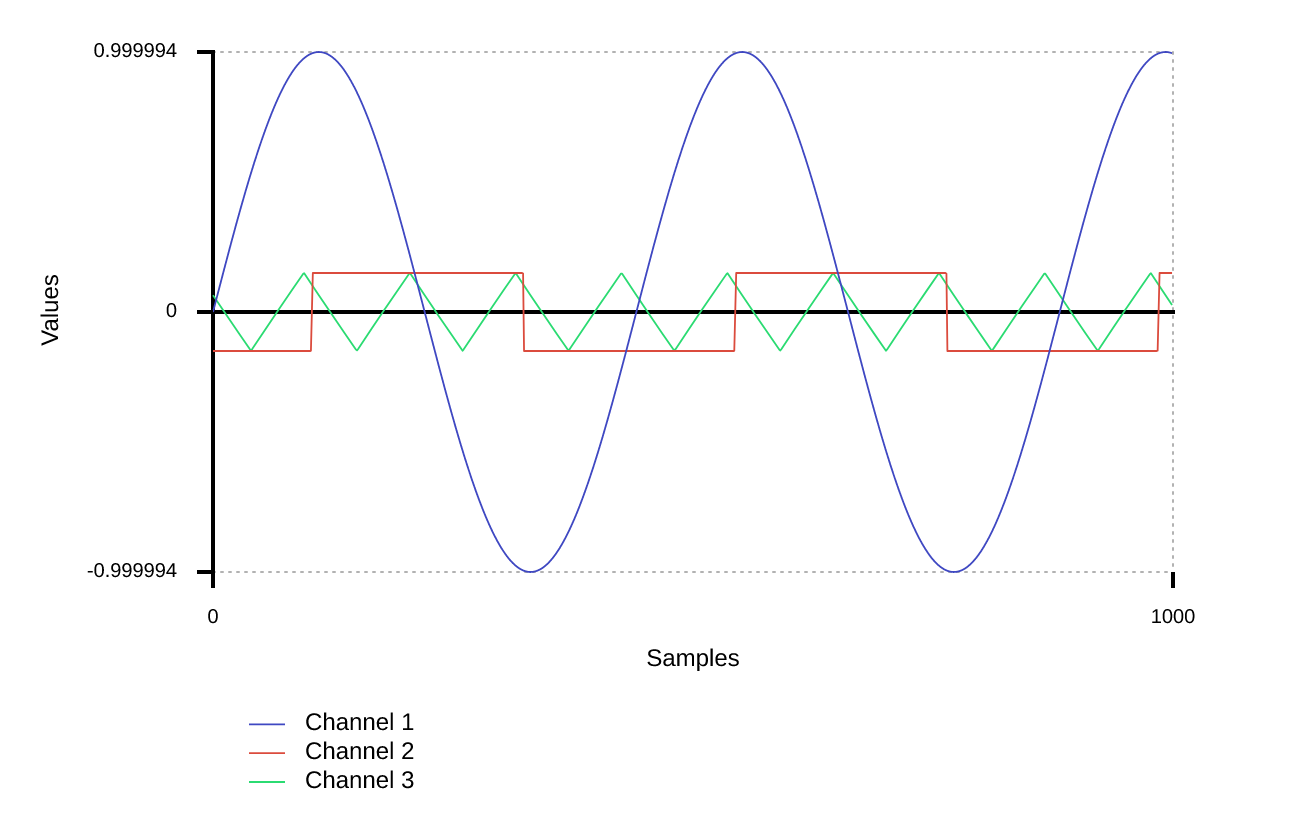
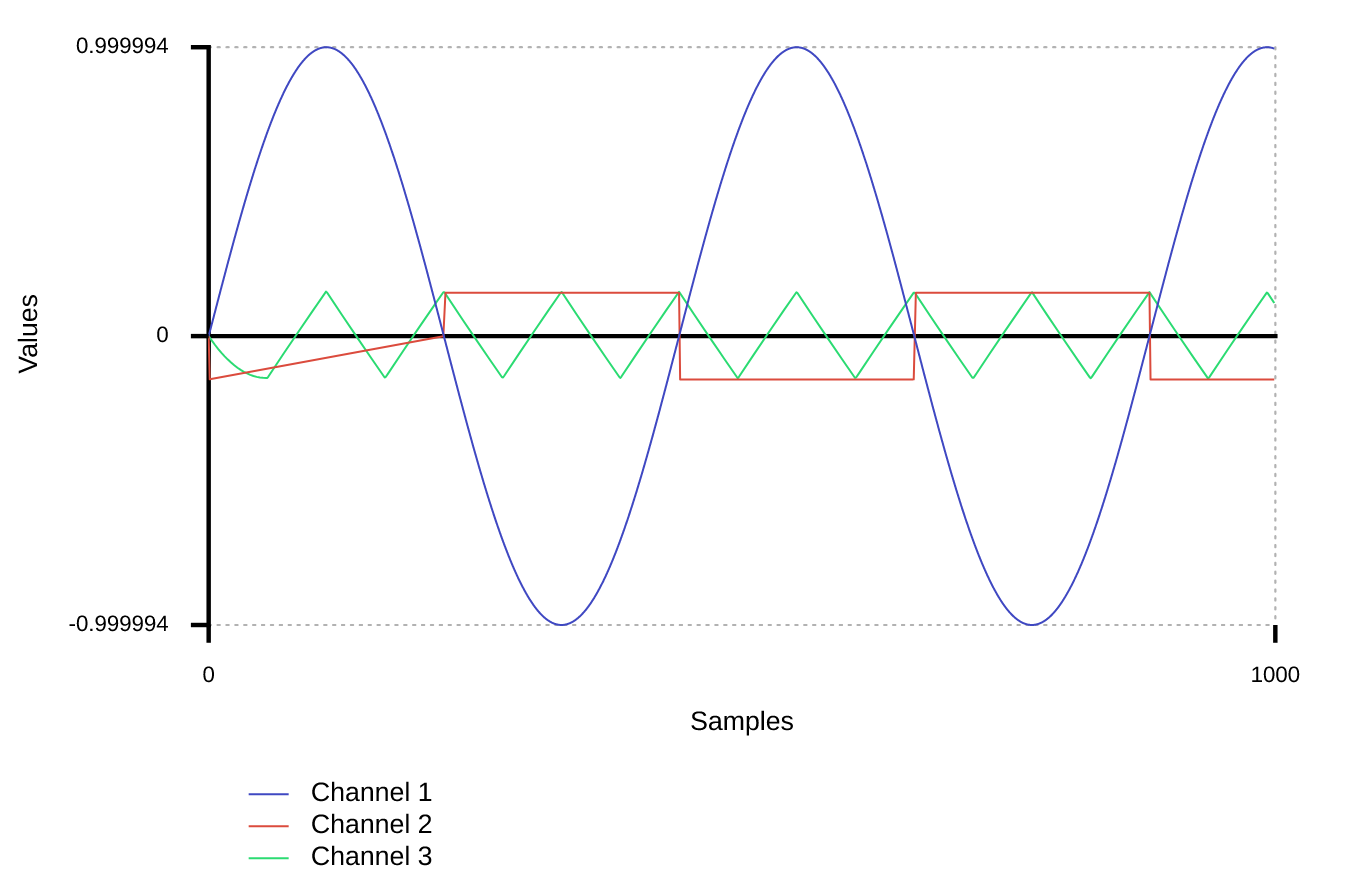
remove buffer loop in channel graph

diff --git a/svgplot.cpp b/svgplot.cpp
@@ -132,9 +132,10 @@ struct DisplayUI : public GenericUI
             //printf(",\t");
             //cout << *it.second;
                 probe.add(frame, (*it.second));
-            cout << std::endl;
-            cout << "Frame : "<< frame << " it : " << *it.second;
-            cout << std::endl;
+            //debug
+            ////cout << std::endl;
+            ////cout << "Frame : "<< frame << " it : " << *it.second;
+            ////cout << std::endl;
             c++;
         }
     }
@@ -145,8 +146,8 @@ struct DisplayUI : public GenericUI
         if (strcmp(key,"probe") == 0) 
         {
             fProbeMap[std::string(val)]=zone;
-            std::cout << "probe" << val;
-            std::cout << std::endl;
+            //std::cout << "probe" << val;
+            //std::cout << std::endl;
         }
     }
     
@@ -213,7 +214,7 @@ class faust2svgplot {
             
             //create the graph legend 
             auto &legend = plot.legend(0, -1);
-            
+            DSP->compute(nsamples, DSP_inputs, DSP_outputs);
             //go through the different channels
             for (int chan=0; chan< DSP->getNumOutputs(); ++chan) 
             {
@@ -223,45 +224,31 @@ class faust2svgplot {
                 auto &line = plot.line();
                 //fixed Index colour position similar to channel
                 line.styleIndex.colour = chan;
-                
-                //buffer counter
-                int bcount = 0;
-                int nbsamples=int(nsamples);
-                do
-                {
-                    //compte on the buffer size
-                    DSP->compute(bsize, DSP_inputs, DSP_outputs);
-                    //create the outputs pointer by channel
-                    FAUSTFLOAT* sub_outputs = DSP_outputs[chan];
-                    for (int frame=0; frame < bsize; ++frame) 
-                        {
-                            //debug
-                            ////std::cout << "frame: "<< frame+(bcount*int(bsize));
-                            ////std::cout << " | Channel " << chan+1 << " :" 
-                            ////    << sub_outputs[frame] << "\t";
-                            ////std::cout << std::endl;
+                for (int frame=0; frame < nsamples; ++frame) 
+                    {
+                        //debug
+                        ////std::cout << "frame: "<< frame;
+                        FAUSTFLOAT* sub_outputs = DSP_outputs[chan];
+                        ////std::cout << " | Channel " << chan+1 << " :" << sub_outputs[frame] << "\t";
+                        ////std::cout << std::endl;
                         
-                            //add the points to the current output line
-                            line.add(frame+(bcount*int(bsize)), sub_outputs[frame]); 
-
-                            //check max and min to create proportional axes
-                            if (max <= sub_outputs[frame]) 
-                            {
-                                max = sub_outputs[frame];
-                            }
-                            if (min >= sub_outputs[frame]) 
-                            {
-                                min = sub_outputs[frame];
-                            } 
+                        //write points in line
+                        line.add(frame, sub_outputs[frame]);
+                        //check for max and min in order to create proportional axes
+                        
+                        if (max <= sub_outputs[frame]) 
+                        {
+                        max = sub_outputs[frame];
                         }
-                    //increment buffer counter
-                    ++bcount;
-                    //reduce total samples number by buffer size
-                    nbsamples -= bsize;
-                }while(nbsamples > 0);
-                //add legend name
+                        if (min >= sub_outputs[frame]) 
+                        {
+                        min = sub_outputs[frame];
+                        } 
+                    }
+                //add legend name 
                 legend.line(line,"Channel "+std::to_string(chan+1));
-            }
+                }
+                     
 
             //if probe metadata in the dsp code
             if (disp.getNumProbes()>0) 
@@ -277,16 +264,13 @@ class faust2svgplot {
                 //fixed Index colour position similar to probe number
                 probe.styleIndex.colour = numbprobes;
                 /////////////////////////////////////////////
-                    for (int chan=0; chan< DSP->getNumOutputs(); ++chan) 
-                    {
+
                     int bcount = 0;
                     int nbsamples=int(nsamples);
                         do
                         {
-                            //compte on the buffer size
+                            //compute on the buffer size
                             DSP->compute(bsize, DSP_inputs, DSP_outputs);
-                            //create the outputs pointer by channel
-                            FAUSTFLOAT* sub_outputs = DSP_outputs[chan];
                             //increment buffer counter
                             ++bcount;
                             //reduce total samples number by buffer size
@@ -297,7 +281,7 @@ class faust2svgplot {
                             disp.displayProbe(plot, probe, curpos, numbprobes);
                         }while(nbsamples > 0);
                     legend.line(probe,"Probe "+std::to_string(numbprobes+1));
-                    }
+                    
                 }
             }
             //create the axes
@@ -306,7 +290,7 @@ class faust2svgplot {
             plot.y.majors(0);
             //create the svg file
             plot.write("mydsp.svg");
-
+            cout<<"mydsp.svg;"<<std::endl;
             }
 
        
